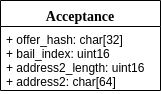
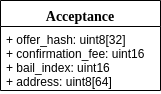
Improve docs and diagrams

diff --git a/README.md b/README.md
@@ -18,27 +18,34 @@ boost 1.68.0
 ## Protocol
 
 xpeer's protocol enables users to make both simple transfers and exchanges of multiple cryptocurrencies. Each vital information is stored on a blockchain.
-Blocks are mined every minute and their size is limited to 1MB. With such frequency blocks can be empty too. Having explored a block, miners are awarded with
+Blocks are mined every minute and their size is limited to 1MB. Having explored a block, miners are awarded with
 extra sum of money(that totals to fees and minted coins), what makes it easy to get xpeer(not only through an exchange at cryptomarket).
 
 xpeer's transactions are quite similar to Bitcoin's - they take inputs and produce [UTXOs](https://www.mycryptopedia.com/bitcoin-utxo-unspent-transaction-output-set-explained/).
-UTXO contains parameters necessary for a validation process. It is more complicated than in Bitcoin, but it arises from an exchange feature.
+UTXO contains parameters necessary for a validation process. 
 
 #### Simple transfer
 
+   <p align="center">
+       <img src="/docs/images/payment_seq.png" />
+   </p>
+
 To make a simple transfer user has to specify the amount of money to be sent, the receiver's address and the amount of money to be sent back. Our protocol enables only to send 
-all the owner's funds, so the only one solution is to transfer the rest of money to oneself. There is no restriction related to receivers' quantity.
-Transfer is getting valid when is included into xpeer's blockchain. To make it faster user should leave higher mining fee. Of course,
+all the owner's funds, so the only one solution is to transfer the rest of money to oneself. There is no restriction related to the quantity of receivers.
+Transfer is getting valid when is included in xpeer's blockchain. To make it faster user should leave higher mining fee. Of course,
 there is an award for miners when they find a block, but it is slowly decreasing and one day will have become 0. Miners are not obligated to explore blocks,
-so without any incentive there is a small possibility to get the transaction involved. Mining consumes a lot of electricity, so it should be obvious that miners
-do not want to have losses.
+so without any incentive there is a small possibility to get the transaction involved.
 
 
 #### Making an offer
 
+   <p align="center">
+       <img src="/docs/images/offer_seq.png" />
+   </p>
+
 Making an offer is a first step of an exchange. Our protocol treats offers as simple transfers, but they contain more information.
 Maker has to specify which currency is being sold and the value, which currency is expected and also value. What is more, user has to provide an address for a payment.
-It is widely known that each currency has a specific addresses' length, usually different through the range of crypto, so it is also automatically included.
+It is widely known that each currency has a specific addresses' lengths, usually different through the range of crypto, so it is also automatically included.
 Another important factor are fees (in xpeer currency) - for adding an offer, for confirmation of the offer and the deposit in case of cheating. Offers have more data to process
 than simple transfers, so miners have more expensive computations. This is the way to make the offer valid in a blockchain faster - the more mining fee,
 the more miners who want to catch it. It is worth mentioning that the offer becomes visible only when is included in xpeer's blockchain. The same with incentive for adding
@@ -48,10 +55,14 @@ There is also another vital information - timeout. Timeout says how much time an
 
 #### Taking an offer
 
+   <p align="center">
+       <img src="/docs/images/taking_seq.png" />
+   </p>
+
 Taking an offer means that one find an offer and is willing to exchange its money. That info makes some kind of a contract between those two sides, each of them agrees to
 send funds on time. In our protocol it means that an acceptance transaction is involved into xpeer's blockchain. In addition to inputs and outputs lists, acceptance transaction
 contains hash of the offer, specifies taker's address for income and can be created only if matching offer exists in our blockchain. To make an acceptance, user has to send fees
-that are the same as in an offer.
+that are the same as in the offer.
 
 
 #### Transaction's confirmation
@@ -64,7 +75,11 @@ but not only depends it on our blockchain but also requires validation of other 
 
 #### Unlocking deposit
 
-When at least one side of exchange does not honor an obligation of sending funds, confirmation is not added into xpeer's blockchain. It means that sides cannot get the
+   <p align="center">
+       <img src="/docs/images/unlocking_seq.png" />
+   </p>
+
+When at least here one side of exchange does not honor an obligation of sending funds, confirmation is not added into xpeer's blockchain. It means that sides cannot get the
 deposit back. The honest one can make an order that verifies its innocence. The order is nothing but verification of sent currency's blockchain to prove that funds
 has been sent. Then the result of that research is added into xpeer's blockchain. This kind of commission requires transaction fee and additionally another __deposit__.
 That deposit is the same as the one that user want to get back. It is connected with minimization of possible jobs that may overload our network. Unlocking can be done when 
@@ -76,10 +91,14 @@ offer acceptance the deposit and the fee for a confirmation block is unlocked, i
 Both results are included into xpeer's blockchain as a kind of transaction. 
 
 
+   <p align="center">
+        <img src="/docs/images/exchange_pipe.png" />
+   </p>
+
 ### UTXO
-   There are two types of transactions' outputs distinguished by the first param:
+   There are two types of transactions' outputs:
    
-   __1) Simple transfer to address given as a second param.__
+   __1) Simple transfer to given address.__
    
    To unlock it, one have to provide its signature(private key) compatible with public key
    given in previous output.
@@ -89,7 +108,7 @@ Both results are included into xpeer's blockchain as a kind of transaction.
    Here one has to specify hash of the offer and possible receiver's address and timestamp with address of
    possible return. To unlock that funds there must be a confirmation block of that offer and given receiver's signature or time is out and previous owner's signature. 
    There is a possibility when both sides can unlock that funds - time is over and exchange was confirmed. The current owner has to remember to transfer its money another
-    one on time, if not, the previous one can spend it. It eliminates amount of money which is unused.
+   one on time, if not, the previous one can spend it. It eliminates amount of money which is unused.
 
 ##### We as authors inform each user about that possibility and are not responsible for those deceits.
 
@@ -98,6 +117,7 @@ As an __input__ one provides hash of the block with previous transaction, positi
 Then outputs and inputs are verified in an enclave and as a result funds are unlocked or not.    
 
 ## Protocol's assumptions
+
    __1) Transaction's restriction__
    Besides minting, sum of transactions' inputs cannot be greater than sum of transaction's outputs. It should be obvious that users cannot
    produce money.
@@ -122,14 +142,33 @@ Then outputs and inputs are verified in an enclave and as a result funds are unl
        <img src="/docs/images/sum.gif" />
    </p>
    	
-   __4) Deposit's amount__
+   __4) Deposit value__
    
    The deposit's fee has to be __at least 10 times larger__ than a transaction's fee in a block. It is a protocols requirement protecting from cheating and DDoS attack 
-   on xpeer's network(steady requests to unlock deposit). Transactions which do not meet this requirement are included in a blockchain, but are not valid and cannot be spent.
+   on xpeer's network(steady requests to unlock deposit). Transactions which do not meet this requirement are included in the blockchain, but are not valid and cannot be spent.
+   Deposit is always payed in xpeer currency, user has to specify its value while making or taking an offer. In case of innocence verification(Unlocking deposit) deposit value must be
+   the same as that to be released or else this operation will be invalid(but those funds will be unreachable).
    
+   __5) Timeouts__
+   
+   <p align="center">
+          <img src="/docs/images/timeouts.png" />
+   </p>
+   
+   xpeer, when is involved in an exchange, can be unlocked in two ways:
+   
+    - the exchange is confirmed and the receiver provides its private key
+    - time for the exchange is out and the sender provides its private key
+   
+   Time for an exchange is specified while making an offer. Timeout says how much time takers have for accepting the offer, then it is becoming unreachable. 
+   When the offer is accepted, both sides have the same amount of time to send their funds, starting from the first timeout. One should do it as soon as possible because nobody
+   knows how much it takes to send other cryptocurrency. When the second time is out and the exchange is confirmed, both sides can spend this amount of xpeer(as described above).
+   __It is crucial for receiver to transfer those funds another one, otherwise can lose it.__ If the exchange is not confirmed, the honest side can make an order to unlock its
+   deposit. The same with unlocking deposit and confirmation fee in case of unaccepted offer(also after the second timeout).
+    
 ## Data structures 
 
-   __1) Block__
+   ### 1) Block
    <p align="center">
         <img src="/docs/images/block.png" alt="Image" />
    </p>
@@ -150,37 +189,52 @@ Then outputs and inputs are verified in an enclave and as a result funds are unl
         <img src="/docs/images/transactions.png" alt="Image" />
    </p>
 
+   ### 2) Transactions
+   
+   __Simple transaction__
+   
+   <p align="center">
+        <img src="/docs/images/transaction.png" alt="Image" />
+   </p>
+   
 
-<p align="center">
-    <img src="/docs/images/in_out.png" alt="Image" />
-</p>
+   __Minting__
+   
+   Minting is a special kind of transaction and it is a model of a decreasing award for mining block. Minting is the only one to have no inputs.
+   
+   <p align="center">
+        <img src="/docs/images/minting.png" alt="Image" />
+   </p>
 
+   __Offer__
 
-<p align="center">
-    <img src="/docs/images/offer.png" alt="Image" />
-</p>
+   <p align="center">
+        <img src="/docs/images/offer.png" alt="Image" />
+   </p>
 
+   __Acceptance__
 
-<p align="center">
-    <img src="/docs/images/minting.png" alt="Image" />
-</p>
+   <p align="center">
+        <img src="/docs/images/acceptance.png" alt="Image" />
+   </p>
 
+   __Confirmation__
 
-<p align="center">
-    <img src="/docs/images/acceptance.png" alt="Image" />
-</p>
+   <p align="center">
+        <img src="/docs/images/confirmation.png" alt="Image" />
+   </p>
 
+   __Unlocking deposit__
 
-<p align="center">
-    <img src="/docs/images/confirmation.png" alt="Image" />
-</p>
+   <p align="center">
+        <img src="/docs/images/unlocking.png" alt="Image" />
+   </p>
 
-
-<p align="center">
-    <img src="/docs/images/unlocking.png" alt="Image" />
-</p>
-
-
+   ### 3) Transactions' inputs and outputs
+          
+   <p align="center">
+        <img src="/docs/images/in_out.png" alt="Image" />
+   </p>
 
 ## System architecture
 
